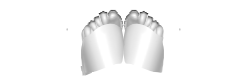
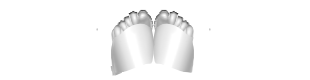
Adjusts SuitLower to remove X offset in the hogtied pose

diff --git a/BondageClub/Assets/Female3DCG/Female3DCG.js b/BondageClub/Assets/Female3DCG/Female3DCG.js
@@ -3926,7 +3926,7 @@ var PoseFemale3DCG = [
 		Category: "BodyFull",
 		OverrideHeight: { Height: -575, Priority: 50 },
 		Hide: ["BodyLower", "Head", "Hands", "ClothLower", "Wings", "Gloves", "Panties", "Pussy", "ItemHands", "ItemPelvis", "ItemVulva", "ItemVulvaPiercings", "ItemLegs", "ItemFeet", "LeftAnklet", "RightAnklet"],
-		MovePosition: [{ Group: "Socks", X: 0, Y: -400 }, { Group: "Shoes", X: 0, Y: -500 }, { Group: "ItemBoots", X: 0, Y: -500 }, { Group: "SuitLower", X: 30, Y: -380 }, { Group: "TailStraps", X: 0, Y: -300 }, { Group: "ItemButt", X: 0, Y: -300 }]
+		MovePosition: [{ Group: "Socks", X: 0, Y: -400 }, { Group: "Shoes", X: 0, Y: -500 }, { Group: "ItemBoots", X: 0, Y: -500 }, { Group: "SuitLower", X: 0, Y: -380 }, { Group: "TailStraps", X: 0, Y: -300 }, { Group: "ItemButt", X: 0, Y: -300 }]
 	},
 	{
 		Name: "Suspension",
